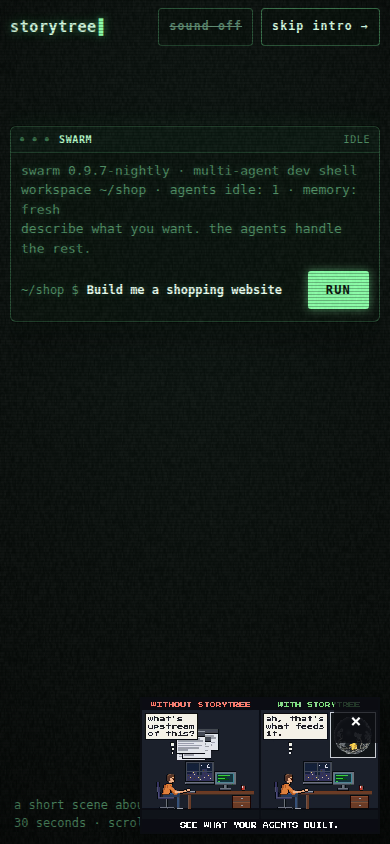
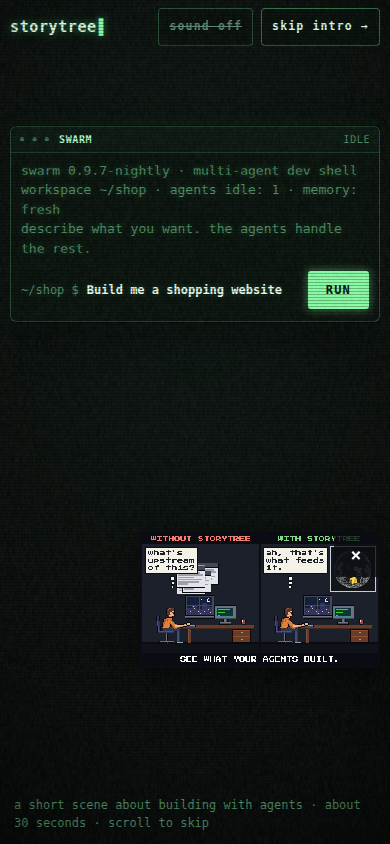
Stand the short's overlay above the tour's bar and waitlist button

Changed region(s): [[0.3385, 0.8318, 0.9846, 0.9858], [0.3385, 0.6161, 0.9846, 0.8009]]

diff --git a/packages/website/src/styles.css b/packages/website/src/styles.css
@@ -306,7 +306,7 @@ body:not(.immersive-home) h3 { margin: 0 0 10px; font-size: 18px; font-weight: 6
 .waitlist h1 { font-size:clamp(48px,6vw,82px); margin-top:20px; }
 
 /* Capability 6 · the first short, a small pixel-art overlay in the corner; the poster shows where video cannot play. */
-.short { position: fixed; z-index: 80; inset: auto 16px 16px auto; width: min(400px, calc(100vw - 32px)); margin: 0; padding: 0; border: 2px solid #0b0d12; background: #0b0d12; box-shadow: 0 8px 28px rgba(0, 0, 0, .45); }
+.short { position: fixed; z-index: 80; inset: auto 16px 76px auto; width: min(400px, calc(100vw - 32px)); margin: 0; padding: 0; border: 2px solid #0b0d12; background: #0b0d12; box-shadow: 0 8px 28px rgba(0, 0, 0, .45); }
 .short video, .short img { display: block; width: 100%; height: auto; image-rendering: pixelated; }
 .short-still { display: none; }
 .short form { position: absolute; top: 0; right: 0; margin: 0; }
@@ -315,6 +315,10 @@ body:not(.immersive-home) h3 { margin: 0 0 10px; font-size: 18px; font-weight: 6
   #short video { display: none; }
   .short-still { display: block; }
 }
+/* It stands above the tour's bar and its waitlist button, which sit lower down the narrower the screen. */
+@media (max-width: 760px) {
+  .short { bottom: 124px; }
+}
 @media (max-width: 600px) {
-  .short { width: min(240px, 62vw); inset: auto 10px 10px auto; }
+  .short { width: min(240px, 62vw); inset: auto 10px 176px auto; }
 }
